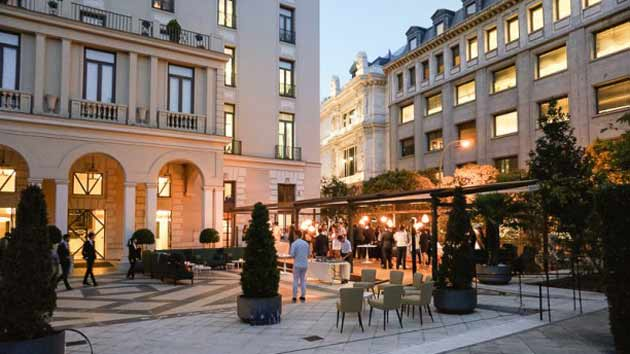
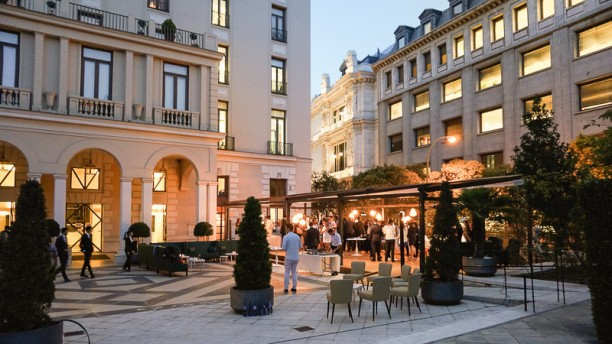
adding some pictures

diff --git a/social/Lunch.html b/social/Lunch.html
@@ -11,12 +11,12 @@
   <script src="../loadhead.js"></script>
   <script>loadheaderexecute(2);</script>
 
-<div class="container"> 
+<div class="container">
 
   <img src="../img/circulo2.jpg" class="img-responsive" alt="Responsive image">
 </div>
 
-  
+
 <div class="container">
   <div class="row">
     <div class="col-md-12">
@@ -26,14 +26,14 @@
       <h3>All days between 12:30 and 14:00</h3>
 
       <p style="text-align:justify;">&nbsp &nbsp Spain is known for its good taste and variety of food. ICSME 2018 could not be different and we have organized some special arrangements so that participants enjoy not only the program, but good food in a nice surrounding and (hopefully) the good weather.</p>
-      
+
       <p style="text-align:justify;">&nbsp &nbsp Lunch will be served in the <a href="http://www.lasbovedasdecibeles.es/">Las B&oacute;vedas de Cibeles</a> Restaurant, crossing Alcal&aacute;a street. Instead of a standing cocktail, we have chosen a typical Spanish restaurant with a special taste, where the <i>men&uacute; del d&iacute;a</i> can be appreciated, which includes two courses and dessert. Conference participants may accompany their meal with local wine and beer, if desired (and at no cost).</p>
 
 <br/>&nbsp;
 <br/>
 
-<p style="text-align:center;"><img src="bovedas.jpg" width="550" height="412"/> &nbsp; <img src="bovedas2.jpg" width="550" height="412"/></p>
-<p style="text-align:center;"><img src="bovedas3.jpg" width="550" height="412"/> &nbsp; <img src="bovedas4.jpg" width="550" height="412"/></p>
+<p style="text-align:center;"><img src="bovedas1.jpg" width="550" height="360"/> &nbsp; <img src="bovedas2.jpg" width="550" height="360"/></p>
+<p style="text-align:center;"><img src="bovedas3.jpg" width="550" height="310"/> &nbsp; <img src="bovedas4.jpg" width="550" height="310"/></p>
 
     </div>
   </div>

diff --git a/social/CoffeeBreak.html b/social/CoffeeBreak.html
@@ -11,12 +11,12 @@
   <script src="../loadhead.js"></script>
   <script>loadheaderexecute(2);</script>
 
-<div class="container"> 
+<div class="container">
 
   <img src="../img/circulo2.jpg" class="img-responsive" alt="Responsive image">
 </div>
 
-  
+
 <div class="container">
   <div class="row">
     <div class="col-md-12">
@@ -26,14 +26,14 @@
       <h3>All days between 10:15 and 11:00, and between 15:30 and 16:15</h3>
 
       <p style="text-align:justify;">&nbsp &nbsp Spain is known for its good weather.</p>
-      
+
       <p style="text-align:justify;">&nbsp &nbsp Coffee breaks will be in the <a href="http://fabularestaurante.com/eventos-en-madrid/">beautiful terrace of F&aacute;bula</a>, just opposite to the C&iacute;rculo de Bellas Artes. The terrace has a magnificent, protected garden where conference participants will enjoy coffee and pastries while socializing.</p>
 
 <br/>&nbsp;
 <br/>
 
-<p style="text-align:center;"><img src="fabula.jpg" width="550" height="412"/> &nbsp; <img src="fabula2.jpg" width="550" height="412"/></p>
-<p style="text-align:center;"><img src="fabula3.jpg" width="550" height="412"/> &nbsp; <img src="fabula4.jpg" width="550" height="412"/></p>
+<p style="text-align:center;"><img src="fabula1.jpg" width="550" height="275"/> &nbsp; <img src="fabula2.jpg" width="550" height="275"/></p>
+<p style="text-align:center;"><img src="fabula3.jpg" width="550" height="310"/> &nbsp; <img src="fabula4.jpg" width="550" height="310"/></p>
 
     </div>
   </div>
